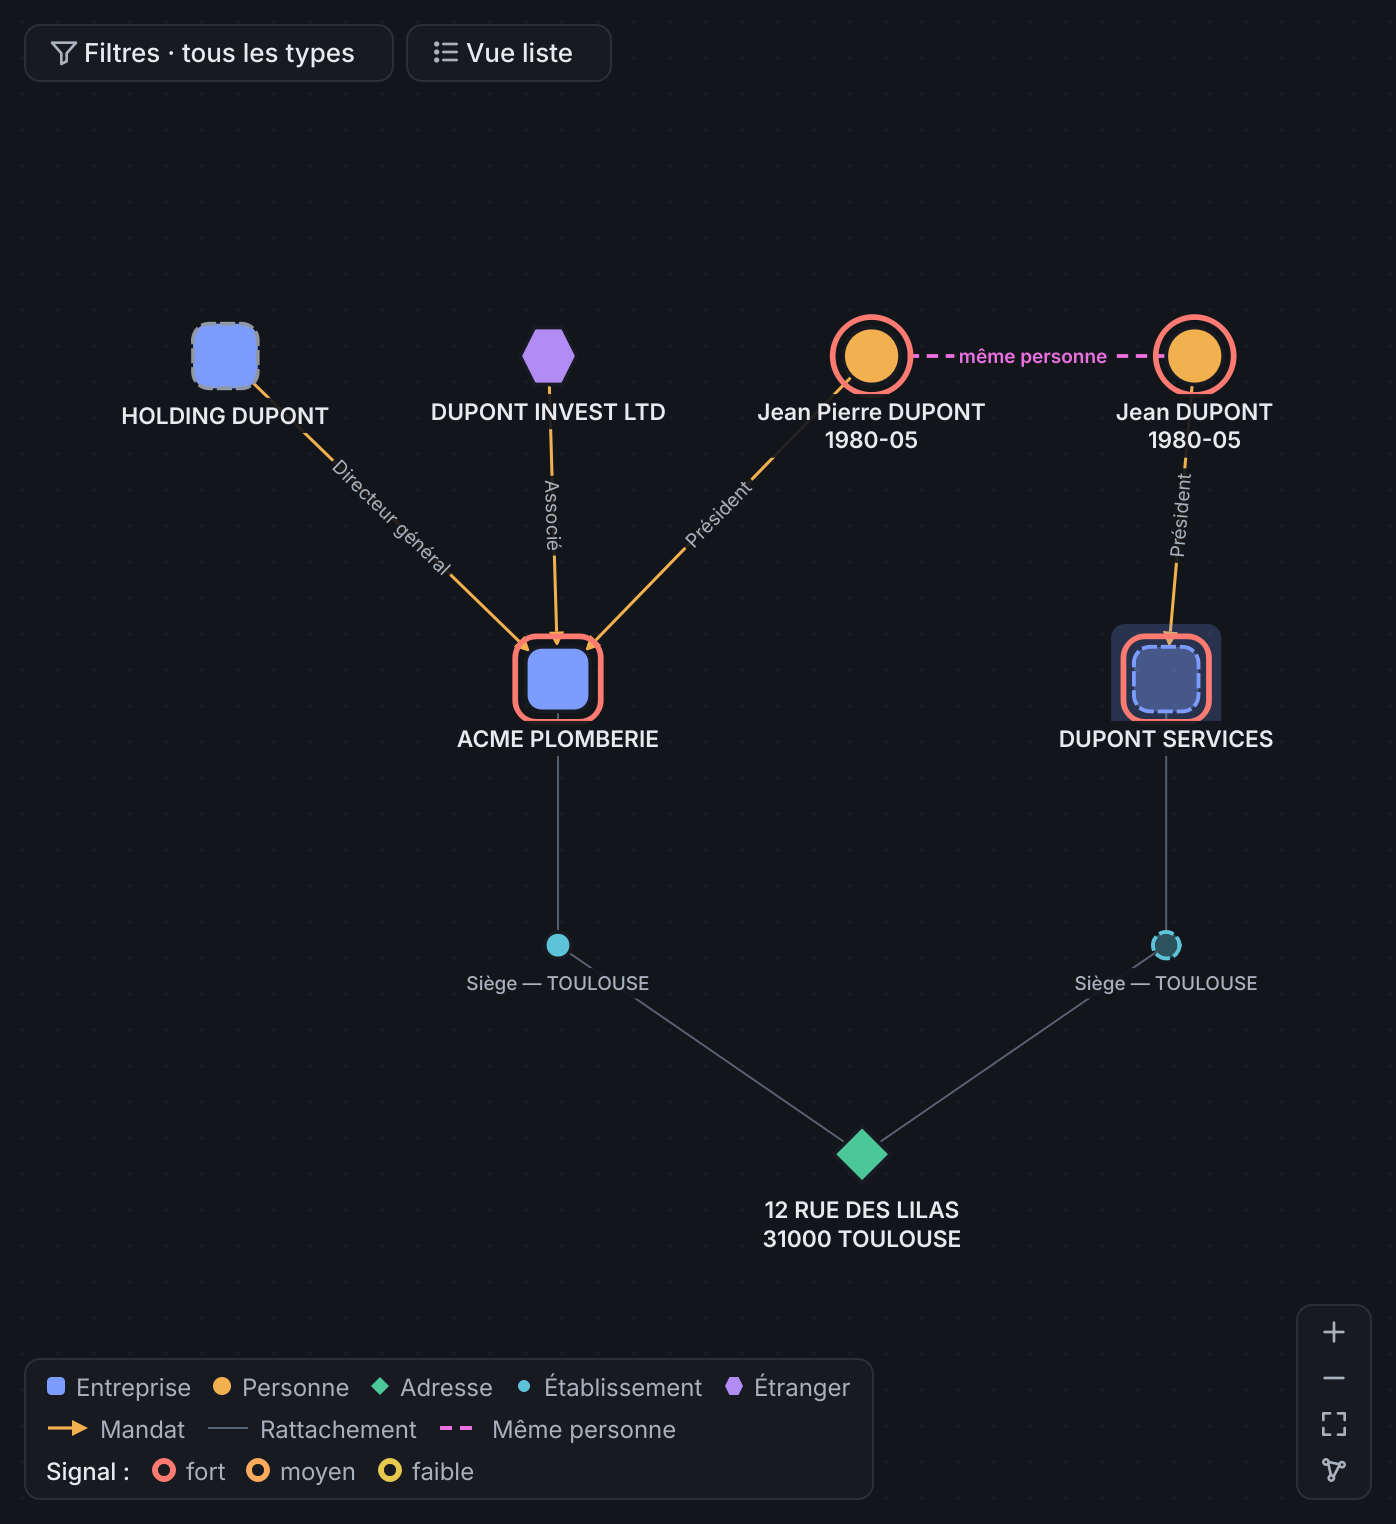
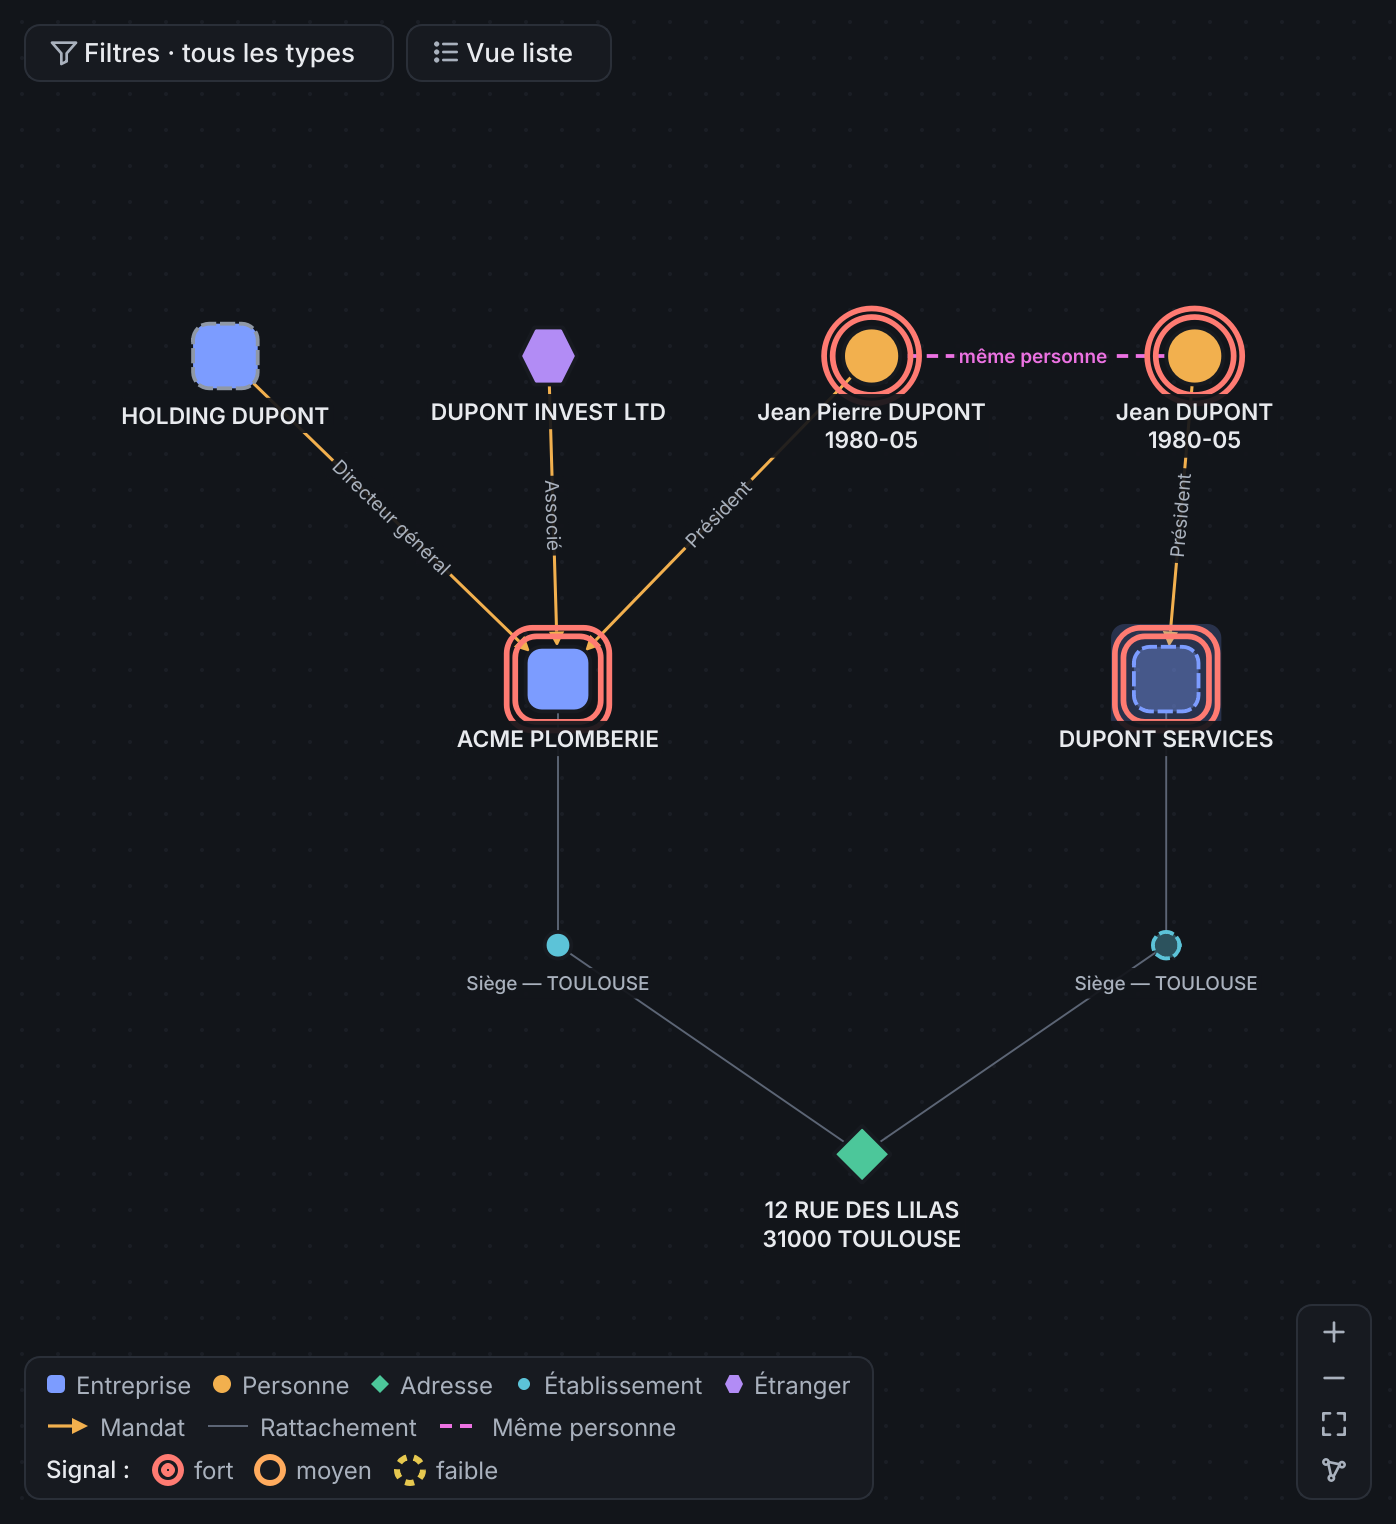
docs(82): Explain what replaces colour in the interface

diff --git a/CHANGELOG.md b/CHANGELOG.md
@@ -6,6 +6,7 @@ All notable changes to Lacis are listed here, newest first. The format follows [
 
 ### Added
 
+- No information relies on colour alone. The severity rings of the graph are double for a strong signal, single for a medium one and dashed for a weak one; hovering an entity writes its kind, its state and its severity; the score of the Entities tab writes the severity next to it; and each notification shows an icon for its kind. Tests check the graph colours against protanopia, deuteranopia and tritanopia simulations.
 - High contrast themes, light and dark, where text reaches 7:1 and borders, icons and graph colours 4.5:1. They apply when the system is in high contrast mode and the theme follows the system, and « Contraste élevé » in View › Thème forces them.
 - Lacis follows the font size of the system, and View › Taille du texte enlarges every text from 100 % to 200 %. At 200 %, on a 1280 × 800 screen, no text is cut and every control remains reachable: long lines wrap, and buttons that no longer fit side by side move to the next line.
 - The graph has a list view, for screen readers and the keyboard. The « Vue liste » button above the graph, or Ctrl+L, shows its entities grouped by kind, each with its links, and screen readers hear each entity with its kind and its number of links. Moving through the list selects the entity in the graph and opens its details, Enter on a link goes to the entity it leads to, and the list follows the filters of the graph.
@@ -14,6 +15,7 @@ All notable changes to Lacis are listed here, newest first. The format follows [
 
 ### Changed
 
+- The link colour of the graph is slightly stronger in the light and dark themes, so that links stay visible to colour blind eyes.
 - The « même personne » colour of the light theme is slightly darker, so that its labels on the graph reach 4.5:1.
 - The provenance button of a « Même personne » link reads « Provenance · Décision », shorter, so that it fits with a larger text. Its accessible name still says « Décision de l'enquêteur ».
 
